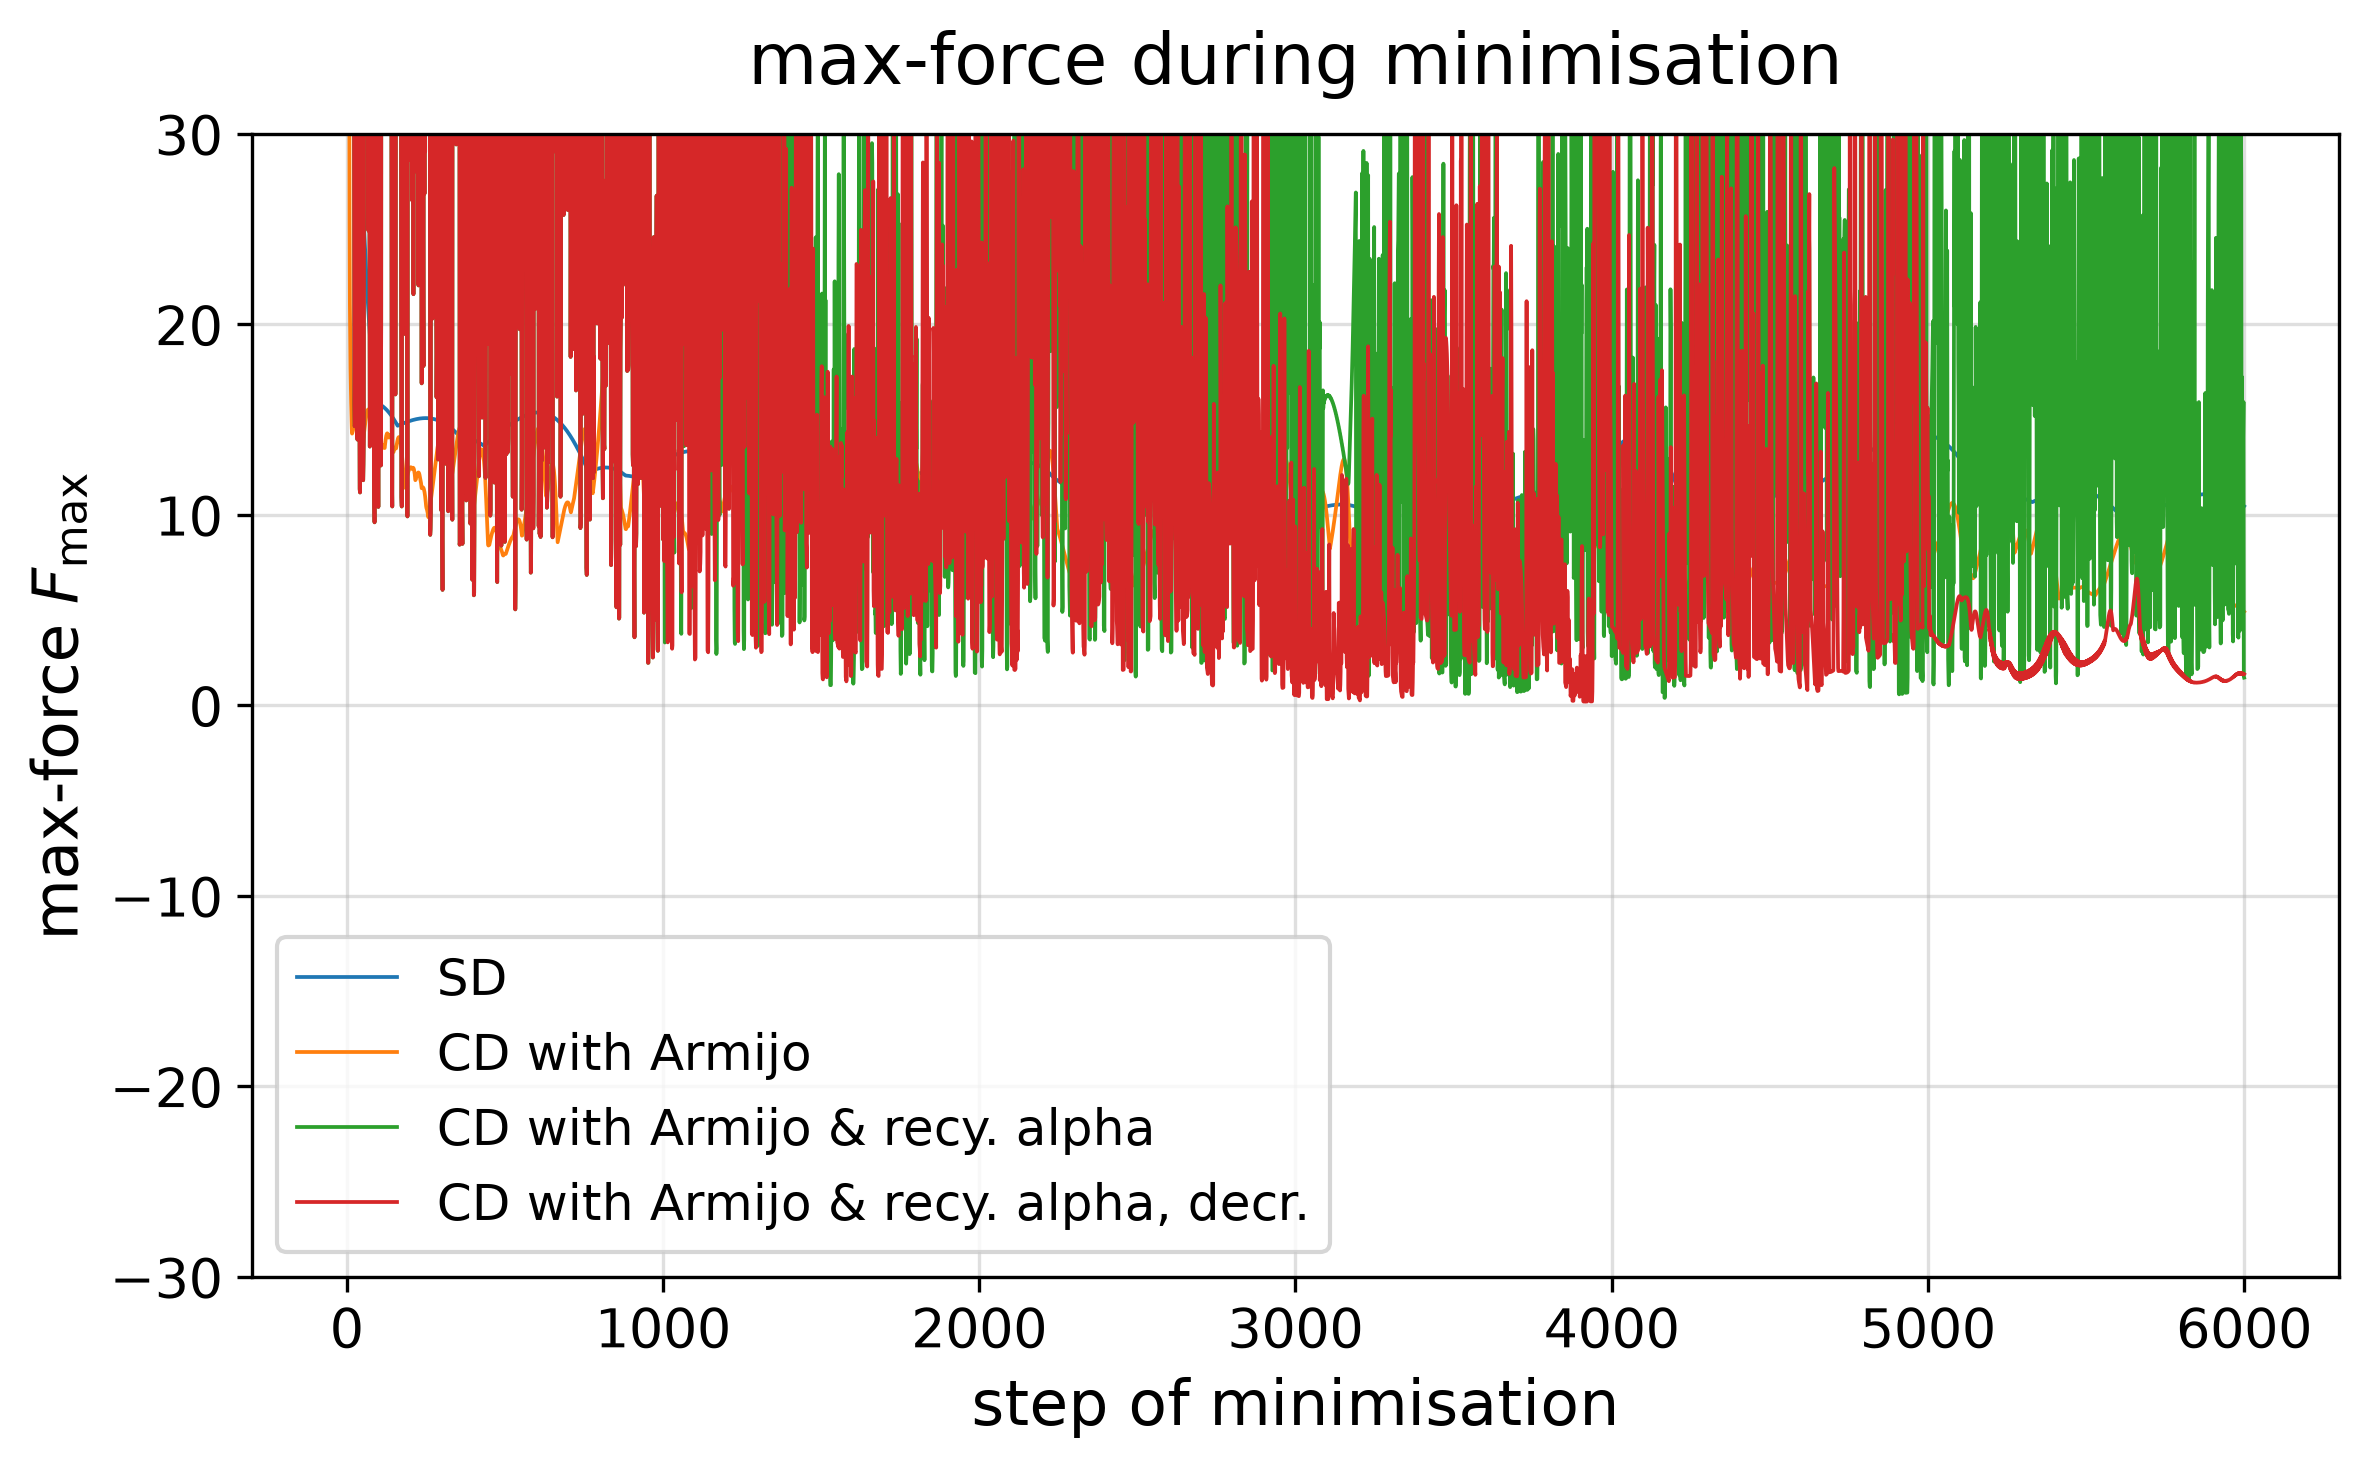
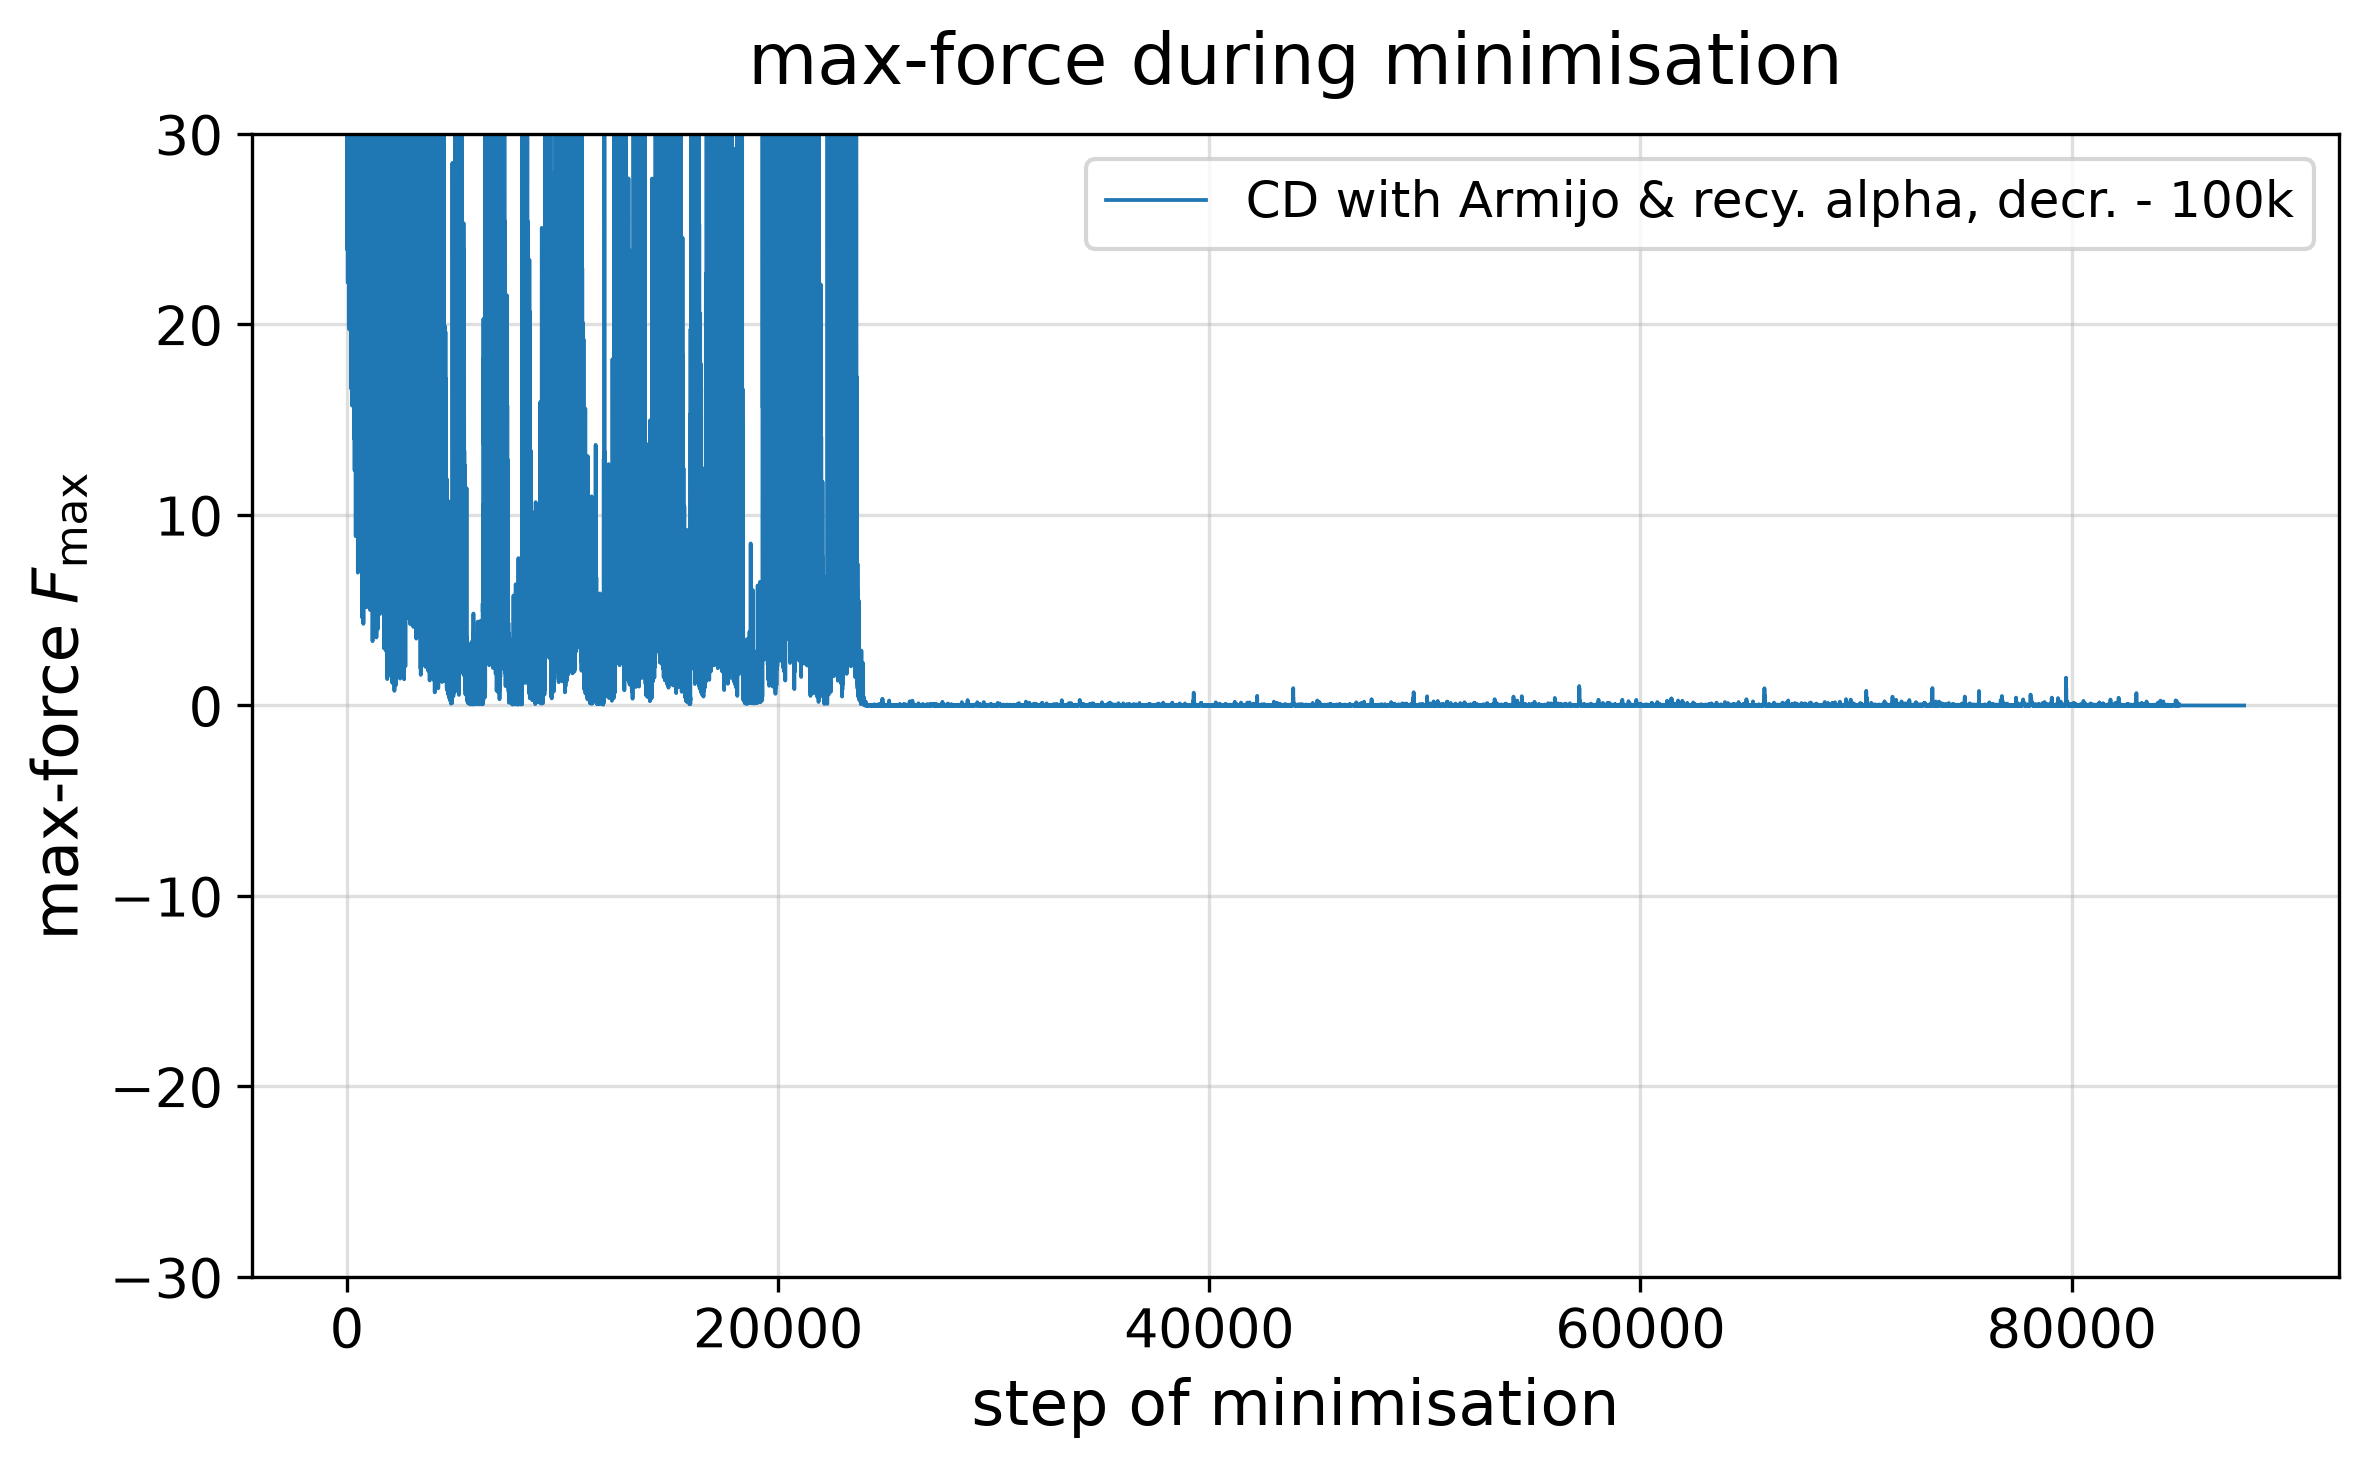
hehe

diff --git a/Methoden-vergleichen.py b/Methoden-vergleichen.py
@@ -40,12 +40,27 @@ base_args = {
     "rij_min": 1e-2,
 
     "NVT": True,
-    "seed": 67,
-    "max_steps": 6000,
+    "seed": 420,
+    "max_steps": 100000,
 }
+methods = [
+    {
+        "label": "CD with Armijo & recy. alpha, decr. - 100k",
+        "SD": False,
+        "recoursive_alpha": True,
+        "alpha_method": "amijo",
+        "rec_alpha_value": 18.0,´
+        "alpha_new_idea": True,
+    },
+]
+
+
+
+
+"""
 
 methods = [
-        {
+    {
         "label": "SD",
         "SD": True,
         "recoursive_alpha": True,
@@ -66,20 +81,19 @@ methods = [
         "SD": False,
         "recoursive_alpha": True,
         "alpha_method": "amijo",
-        "rec_alpha_value": 2.0,
+        "rec_alpha_value": 2.8,
         "alpha_new_idea": False,
     },
-    g{
+    {
         "label": "CD with Armijo & recy. alpha, decr.",
         "SD": False,
         "recoursive_alpha": True,
         "alpha_method": "amijo",
-        "rec_alpha_value": 2.0,
+        "rec_alpha_value": 2.8,
         "alpha_new_idea": True,
     },
-
 ]
-
+"""
 """
 ==================================================
 12
